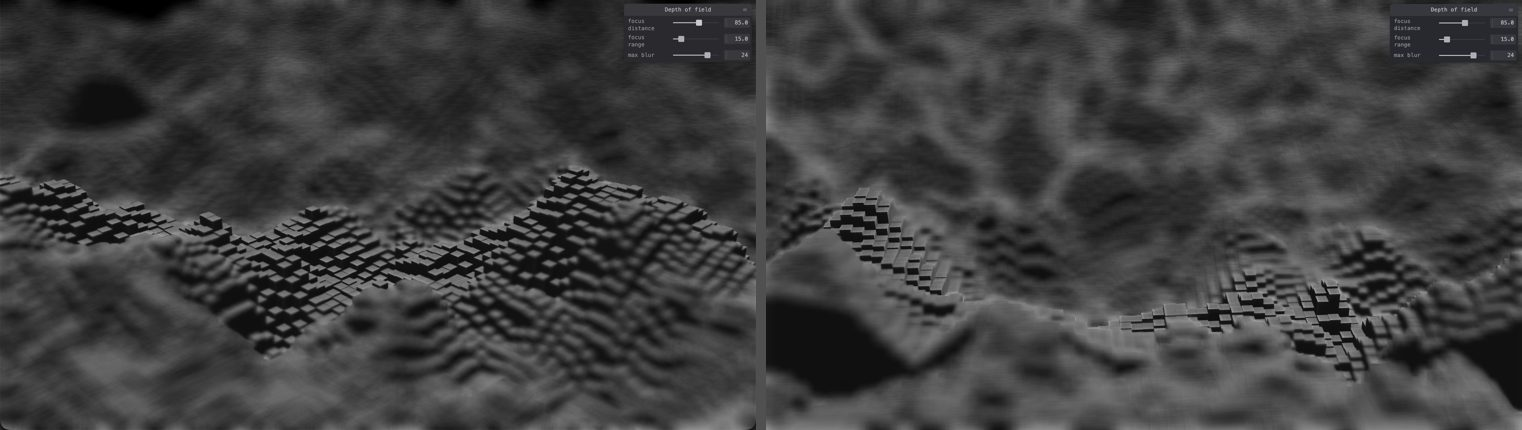
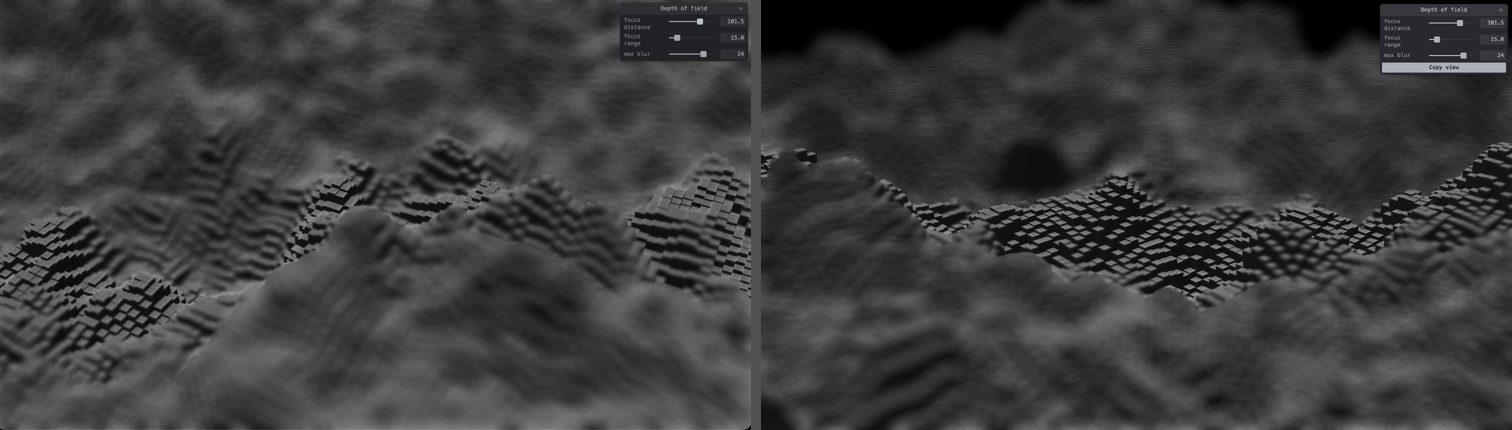
feat(examples): DoF terrain view from the user's recording, shareable views
- Opens looking the way the recording does (azimuth 318°, elevation 22°,
  radius 150) with focus distance 101.5, range 15, max blur 24.
- One view object (radius, azimuth, elevation, target, fov and the DoF
  values) sets the opening state; ?view=<json> overrides it, and a
  'Copy view' button (or the V key) copies the current view as JSON with
  a ready-made ?view= URL.
- The orbit target is its own Vector3 rather than scene.position.

diff --git a/examples/index_dof_terrain.html b/examples/index_dof_terrain.html
@@ -23,6 +23,7 @@
     import { Scene } from '../src/objects/Scene'
     import { Camera } from '../src/cameras/Camera'
     import { Vector2 } from '../src/math/Vector2'
+    import { Vector3 } from '../src/math/Vector3'
     import { CameraControls } from '../src/controls/CameraControls'
     import { PostProcessingVolume } from '../src/postprocessing/PostProcessingVolume'
     import { SSAOEffect } from '../src/postprocessing/effects/SSAOEffect'
@@ -142,15 +143,9 @@
     // ── Camera & controls ─────────────────────────────────────────────────────
     const scene  = new Scene();
     const camera = new Camera(26, 0.1, 1000, window.innerWidth / window.innerHeight);
-    // Opening view: a low camera skimming the columns, with the focus band (85 units away) across the lower middle
-    // and the foreground and background blurred out. Drag to orbit and scroll to zoom from there.
-    const orbitRadius = window.innerWidth < 768 ? 160 : 130;
-    const cameraControls = new CameraControls(camera, scene.position, null, orbitRadius);
-    cameraControls.azimuth = -0.01 * Math.PI * 2;
-    // Elevation has no setter: set the orbit's vertical angle (in turns) and its eased value together, as azimuth does.
-    const ELEVATION_TURNS = 0.075;
-    cameraControls.currentAngles.y = cameraControls.prevAngles.y = ELEVATION_TURNS;
-    cameraControls.finalRadians.y = ELEVATION_TURNS * Math.PI * 2;
+    // Drag to orbit and scroll to zoom. The opening view is set below (DEFAULT_VIEW).
+    const orbitTarget = new Vector3(0, 0, 0);
+    const cameraControls = new CameraControls(camera, orbitTarget, null, 100);
 
     // ── Material (no texture — Lambert only) ──────────────────────────────────
     const material = new Material(lambertShader, { bindings: [] });
@@ -194,7 +189,7 @@
       strength: 0.5
     });
     const dofEffect = new DepthOfFieldEffect({
-      focusDistance: 85,
+      focusDistance: 101.5,
       focusRange: 15,
       maxBlur: 24
     });
@@ -206,6 +201,83 @@
     pane.addBinding(dofEffect, 'focusRange', { min: 1, max: 80, step: 0.5, label: 'focus range' });
     pane.addBinding(dofEffect, 'maxBlur', { min: 0, max: 32, step: 1, label: 'max blur' });
     if (window.innerWidth < 768) pane.expanded = false;
+
+    // ── View: the opening camera and DoF, shareable as JSON ──────────────────
+    // 'Copy view' (or the V key) copies the current view; open the page with ?view=<that JSON> to restore it exactly.
+    // Angles are in degrees: azimuth around the target (0 = +Z side, 90 = +X side), elevation above the ground plane.
+    const DEFAULT_VIEW = {
+      radius: 150,
+      azimuth: 318,
+      elevation: 22,
+      target: [0, 0, 0],
+      fov: 26,
+      focusDistance: 101.5,
+      focusRange: 15,
+      maxBlur: 24,
+    };
+    const DEG = Math.PI / 180;
+
+    function currentView() {
+      // CameraControls keeps its orbit in turns (fractions of a full circle); its fields are TypeScript-private only.
+      const cc = cameraControls;
+      return {
+        radius: +cc.wheelDelta.toFixed(2),
+        azimuth: +(cc.currentAngles.x * 360).toFixed(2),
+        elevation: +(cc.currentAngles.y * 360).toFixed(2),
+        target: [orbitTarget.x, orbitTarget.y, orbitTarget.z].map((v) => +v.toFixed(2)),
+        fov: camera.fov,
+        focusDistance: dofEffect.focusDistance,
+        focusRange: dofEffect.focusRange,
+        maxBlur: dofEffect.maxBlur,
+      };
+    }
+
+    function applyView(view) {
+      const v = { ...DEFAULT_VIEW, ...view };
+      const cc = cameraControls;
+      cc.wheelDelta = cc.wheelDeltaEase = cc.radius = v.radius;
+      cc.azimuth = v.azimuth * DEG;
+      // Elevation has no setter: set the vertical angle and its eased value together, as the azimuth setter does.
+      cc.currentAngles.y = cc.prevAngles.y = v.elevation / 360;
+      cc.finalRadians.y = v.elevation * DEG;
+      orbitTarget.set(v.target[0], v.target[1], v.target[2]);
+      camera.fov = v.fov;
+      camera.updateProjectionMatrix();
+      dofEffect.focusDistance = v.focusDistance;
+      dofEffect.focusRange = v.focusRange;
+      dofEffect.maxBlur = v.maxBlur;
+      pane.refresh();
+    }
+
+    let openingView = { ...DEFAULT_VIEW };
+    const viewParam = new URLSearchParams(window.location.search).get('view');
+    if (viewParam) {
+      try {
+        openingView = { ...DEFAULT_VIEW, ...JSON.parse(viewParam) };
+      } catch (err) {
+        console.warn('Ignoring ?view=, it is not valid JSON:', err);
+      }
+    }
+    applyView(openingView);
+
+    async function copyView() {
+      const view = currentView();
+      const json = JSON.stringify(view);
+      const url = `${location.origin}${location.pathname}?view=${encodeURIComponent(json)}`;
+      console.log('Kansei DoF terrain view:\n' + JSON.stringify(view, null, 2) + '\n' + url);
+      try {
+        await navigator.clipboard.writeText(JSON.stringify({ ...view, url }, null, 2));
+        copyButton.title = 'Copied';
+      } catch {
+        copyButton.title = 'See console';
+      }
+      setTimeout(() => (copyButton.title = 'Copy view'), 1500);
+    }
+    const copyButton = pane.addButton({ title: 'Copy view' });
+    copyButton.on('click', copyView);
+    window.addEventListener('keydown', (e) => {
+      if (e.key === 'v' && !e.metaKey && !e.ctrlKey && !e.altKey) copyView();
+    });
 
     // ── Render loop ───────────────────────────────────────────────────────────
     let lastTime = performance.now();
